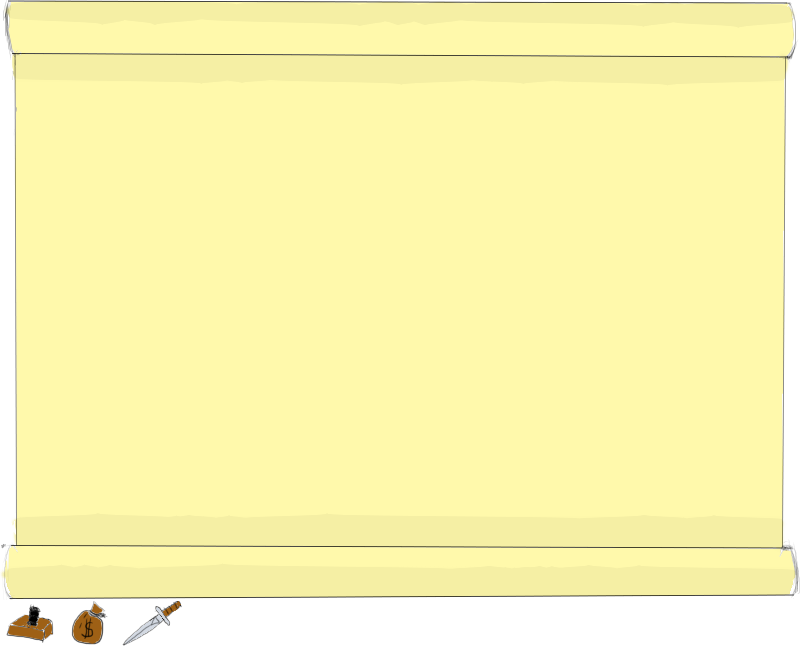
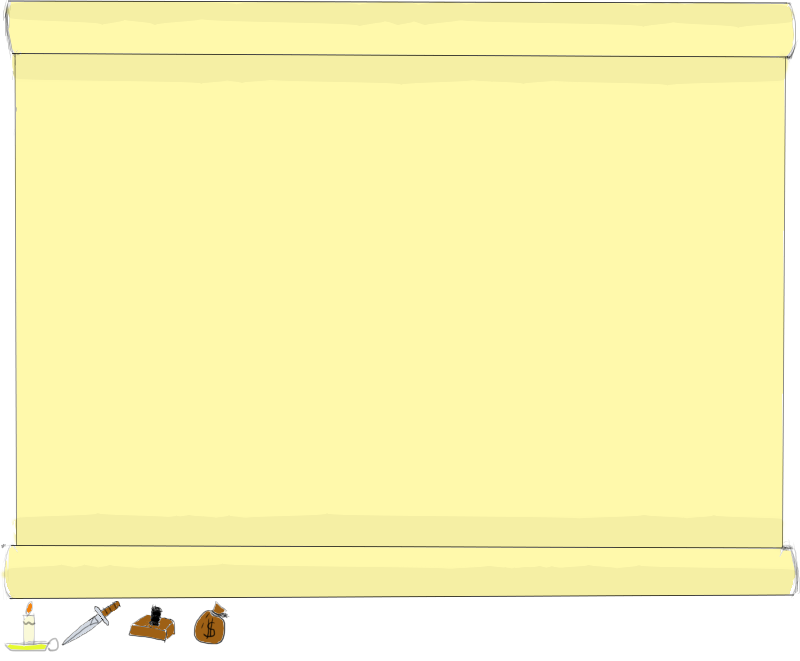
added and enabled the candle to be interactable.

diff --git a/myGame/javascript/script.js b/myGame/javascript/script.js
@@ -185,10 +185,10 @@ GamePlay.prototype = {
 		game.add.existing(stamp);	
 		stamp.alpha = 0.5;
 
-		/*this.candle = new Item(game, 710, 560, 'obj', 'Candle');
+		candle = new Item(game, 710, 560, 'obj', 'Candle');
 		game.add.existing(candle);
-		this.candle.input.enableDrag();
-		this.candle.alpha = 0.5;*/
+		candle.input.enableDrag();
+		candle.alpha = 0.5;
 
 		// UI score
 		printCP = game.add.text(135, 58, comPoints);
@@ -224,11 +224,11 @@ GamePlay.prototype = {
 			stamp.alpha = 0.5;
 		}
 
-		/*if(this.candle.input.pointerOver()){
-			this.candle.alpha = 1;
+		if(candle.input.pointerOver()){
+			candle.alpha = 1;
 		}else{
-			this.candle.alpha = 0.5;
-		}*/
+			candle.alpha = 0.5;
+		}
 
 		//if moused over scroll and click left button, go to READ state
 		if(game.input.activePointer.leftButton.isDown && scroll.input.pointerOver()){

diff --git a/myGame/javascript/candle.js b/myGame/javascript/candle.js
@@ -1,0 +1,19 @@
+function Candle(game, x, y, key, frame){
+	//call to phaser.sprite
+	Phaser.Sprite.call(this, game, x, y, key, frame);
+
+	//add properties
+	this.anchor.set(.5);
+
+	//add physics
+	game.physics.enable(this);
+	this.body.collideWorldBounds = true;
+	this.inputEnabled = true;
+}
+
+Candle.prototype = Object.create(Item);
+Candle.prototype.constructor = Candle;
+//overRide update function to check for mouse events
+Candle.prototype.update = function(){
+	//if dropped onto NPC.sprite, kill itself and the NPC
+}
